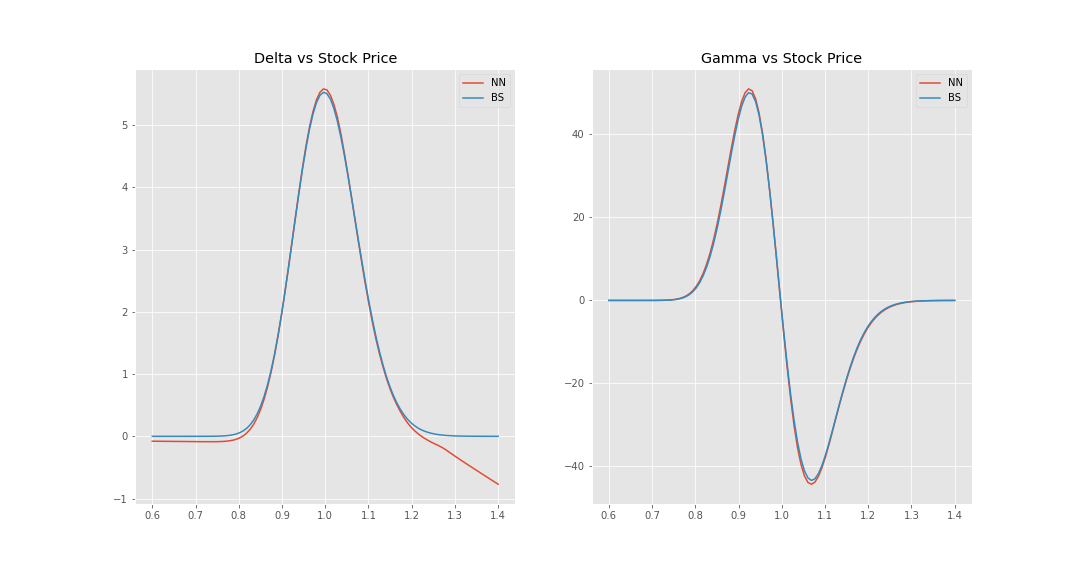
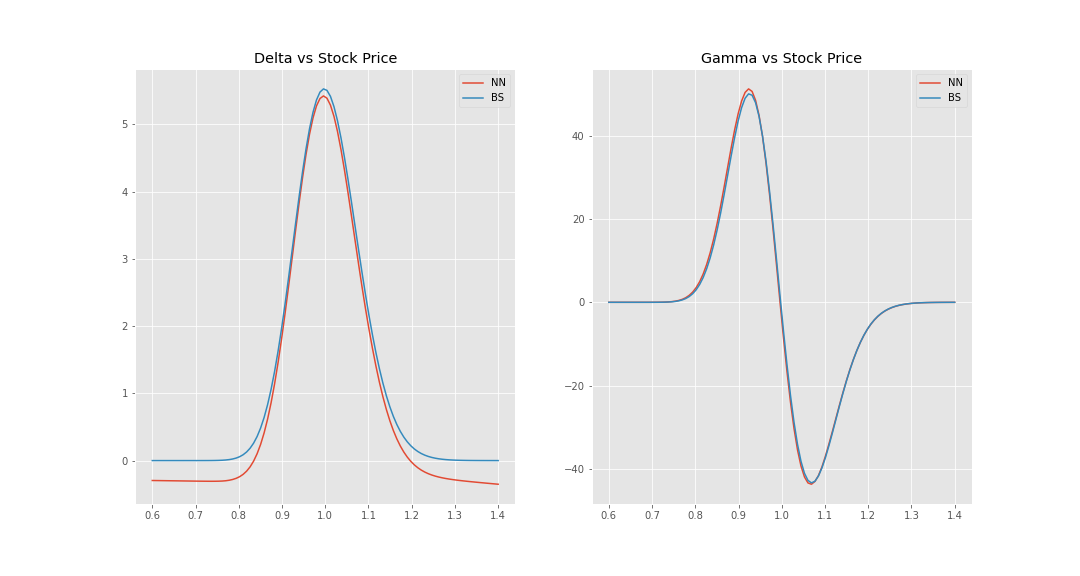
fix

diff --git a/pyhedging/NNModel.py b/pyhedging/NNModel.py
@@ -315,7 +315,7 @@ class NNModel:
             fig_name += '.png'
             fig.savefig(fig_name)
 
-    def build_delta_gamma(self, n=100, save=False):
+    def build_delta_gamma(self, n=100, t=0, save=False):
         stock_price = Input(shape=(self._n_hedging_inst,))
         time = Input(shape=(1,))
         input_layer = Concatenate(axis=1)([stock_price, time])
@@ -327,8 +327,8 @@ class NNModel:
         sub_model = Model([stock_price, time], outputs=output)
 
         stock_price = np.linspace(0.6, 1.4, n)
-        c = BSPricer.get_vanilla_prices(stock_price.reshape((-1, 1)), self._hedging_inst)
-        sub_model_input = [np.concatenate((stock_price.reshape((-1, 1)), c), axis=1), np.zeros((n, 1))]
+        c = BSPricer.get_vanilla_prices(stock_price.reshape((-1, 1)), self._hedging_inst, time=t)
+        sub_model_input = [np.concatenate((stock_price.reshape((-1, 1)), c), axis=1), t*np.ones((n, 1))]
         strategies = np.array(sub_model.predict(sub_model_input))
         strategies_stock = strategies[:, 0]
 
@@ -340,7 +340,7 @@ class NNModel:
 
             strike = hedging_inst.strike
             volatility = hedging_inst.volatility
-            time_to_maturity = hedging_inst.maturity
+            time_to_maturity = hedging_inst.maturity - t
 
             d1 = (np.log(stock_price / strike) + time_to_maturity * (volatility ** 2 / 2)) / (
                     volatility * np.sqrt(time_to_maturity))
@@ -353,7 +353,7 @@ class NNModel:
 
             i += 1
 
-        delta_bs, gamma_bs = BSPricer.get_delta_gamma_distribution(self._derivative, stock_price)
+        delta_bs, gamma_bs = BSPricer.get_delta_gamma_distribution(self._derivative, stock_price, time=t)
 
         fig = plt.figure(figsize=(15, 8))
         plt.subplot(1, 2, 1)

diff --git a/pyhedging/BSPricer.py b/pyhedging/BSPricer.py
@@ -360,12 +360,12 @@ class BSPricer:
         return deltas, gammas
 
     @staticmethod
-    def get_delta_gamma_distribution(derivative, stock_prices):
+    def get_delta_gamma_distribution(derivative, stock_prices, time=0):
 
         if type(derivative) == VanillaOption:
             strike = derivative.strike
             volatility = derivative.volatility
-            time_to_maturity = derivative.maturity
+            time_to_maturity = derivative.maturity - time
             d1 = (np.log(stock_prices / strike) + time_to_maturity * (volatility ** 2 / 2)) / (
                     volatility * np.sqrt(time_to_maturity))
             if derivative.payoff == 'call':
@@ -379,6 +379,7 @@ class BSPricer:
 
         else:
             derivative_to_price = deepcopy(derivative)
+            derivative_to_price.maturity = derivative_to_price.maturity - time
             h = 0.001
             delta_bs = []
             gamma_bs = []
